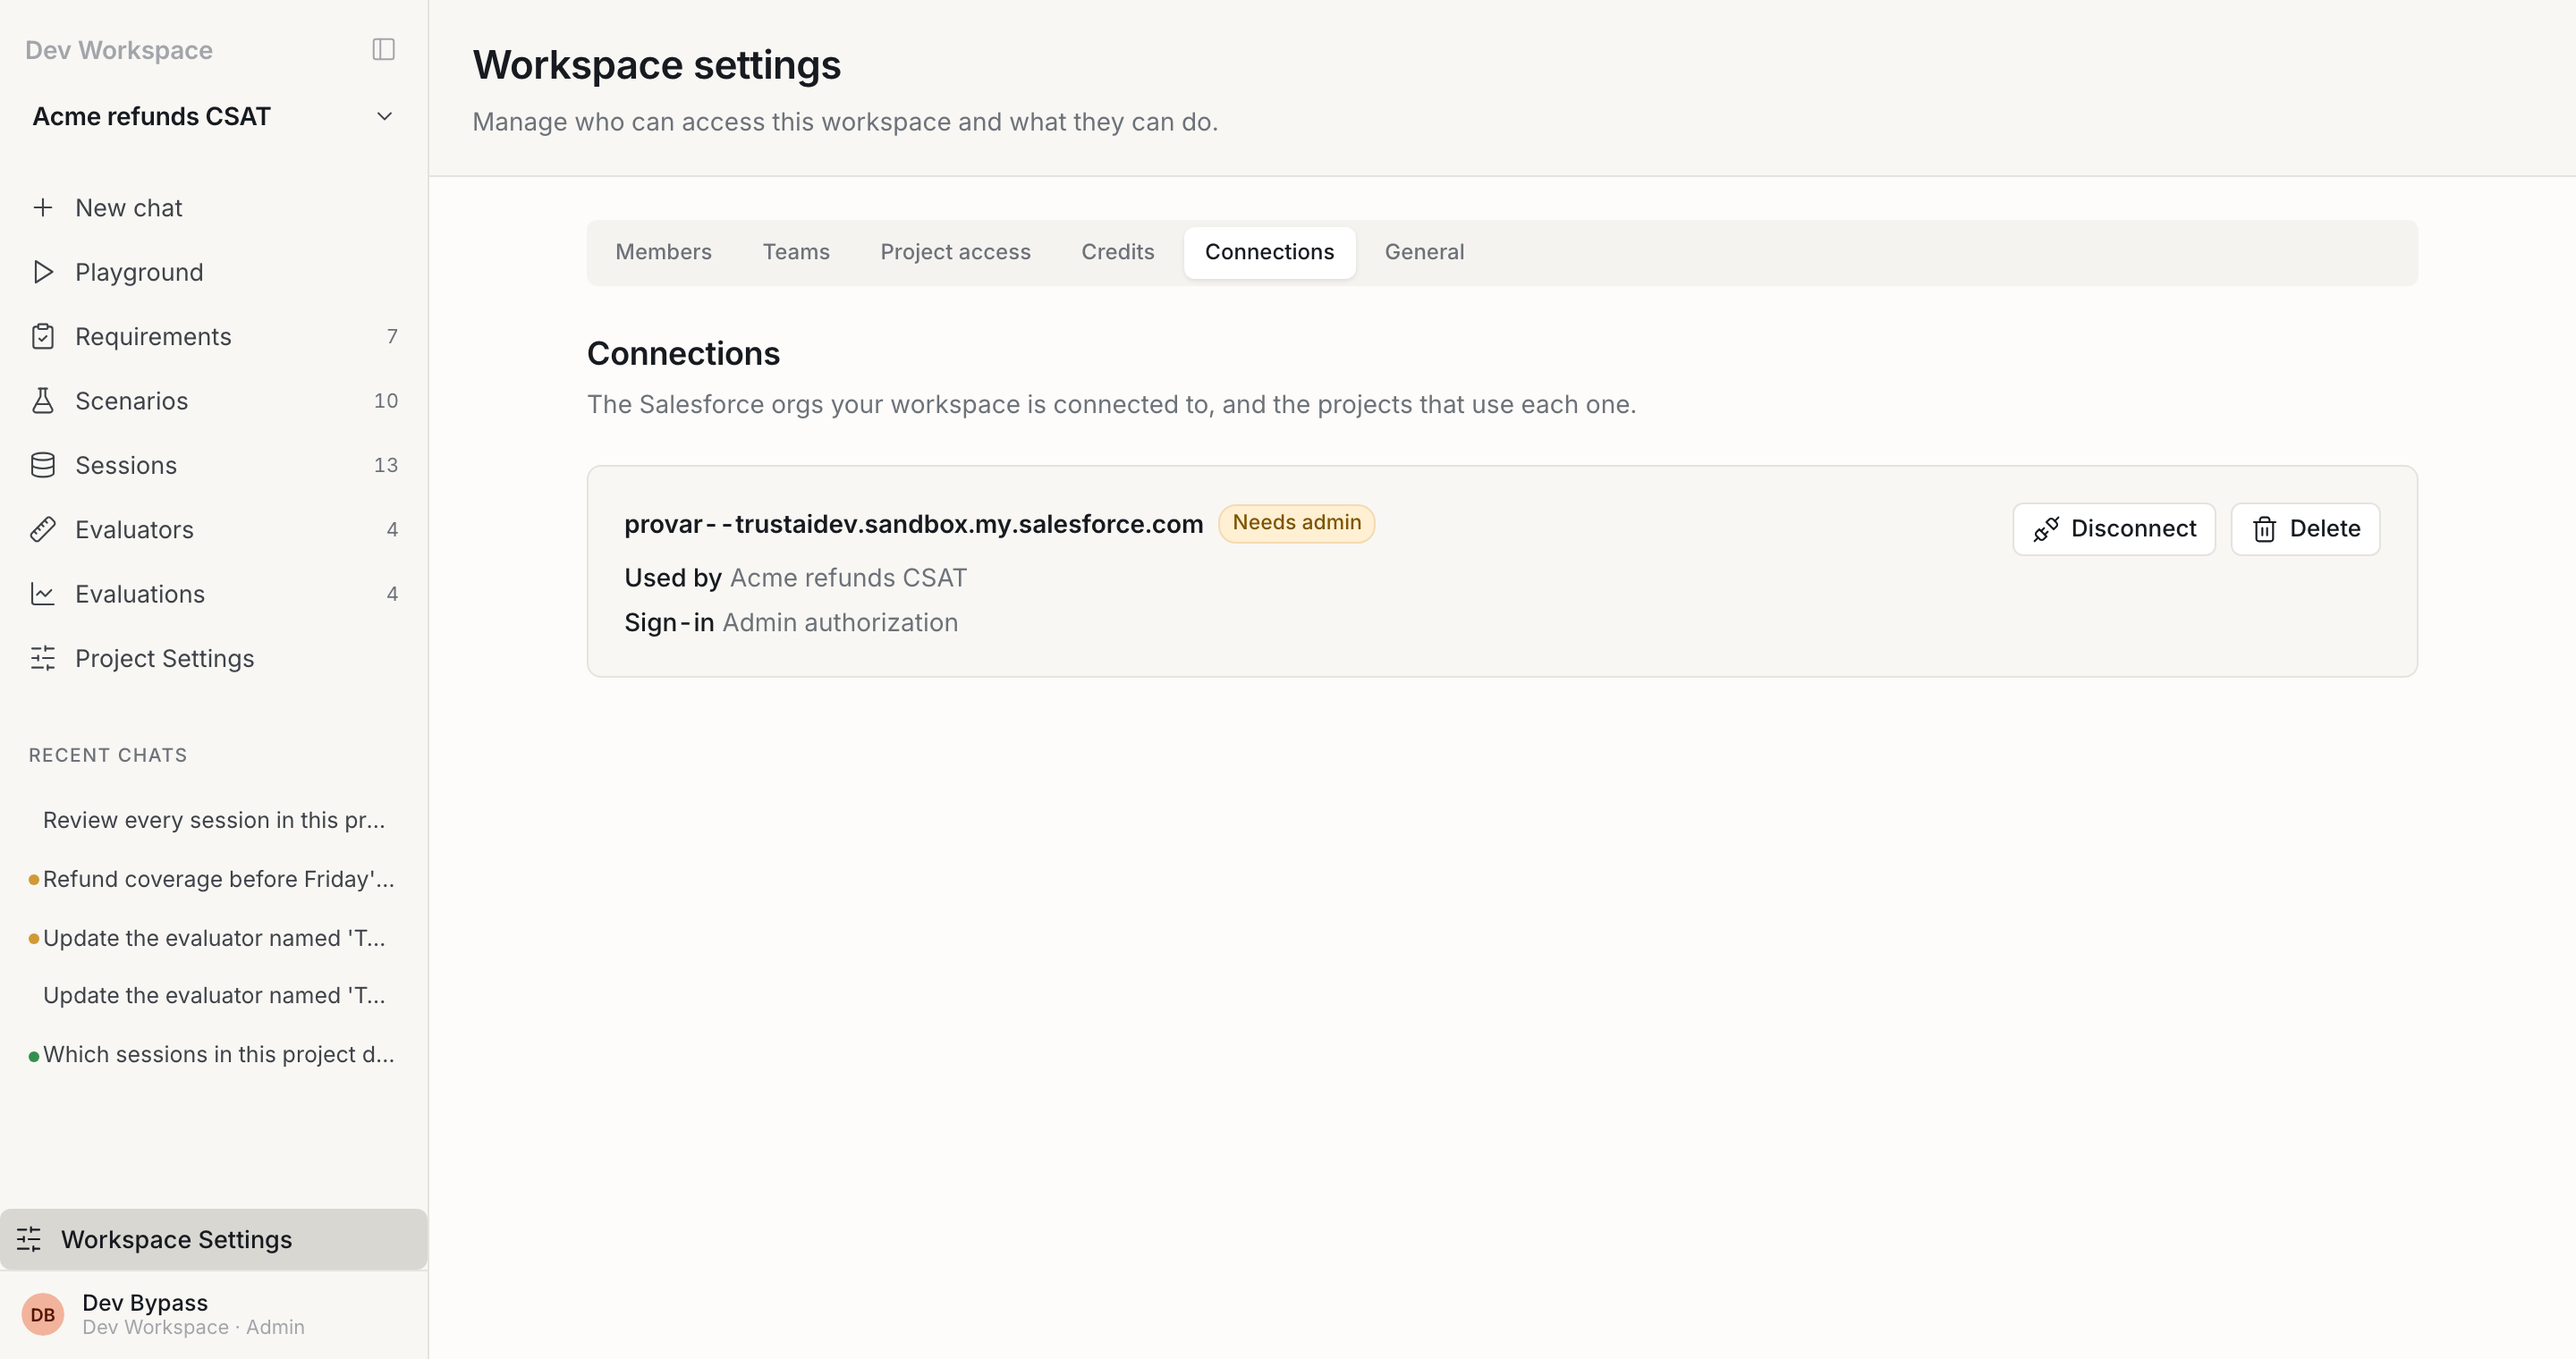
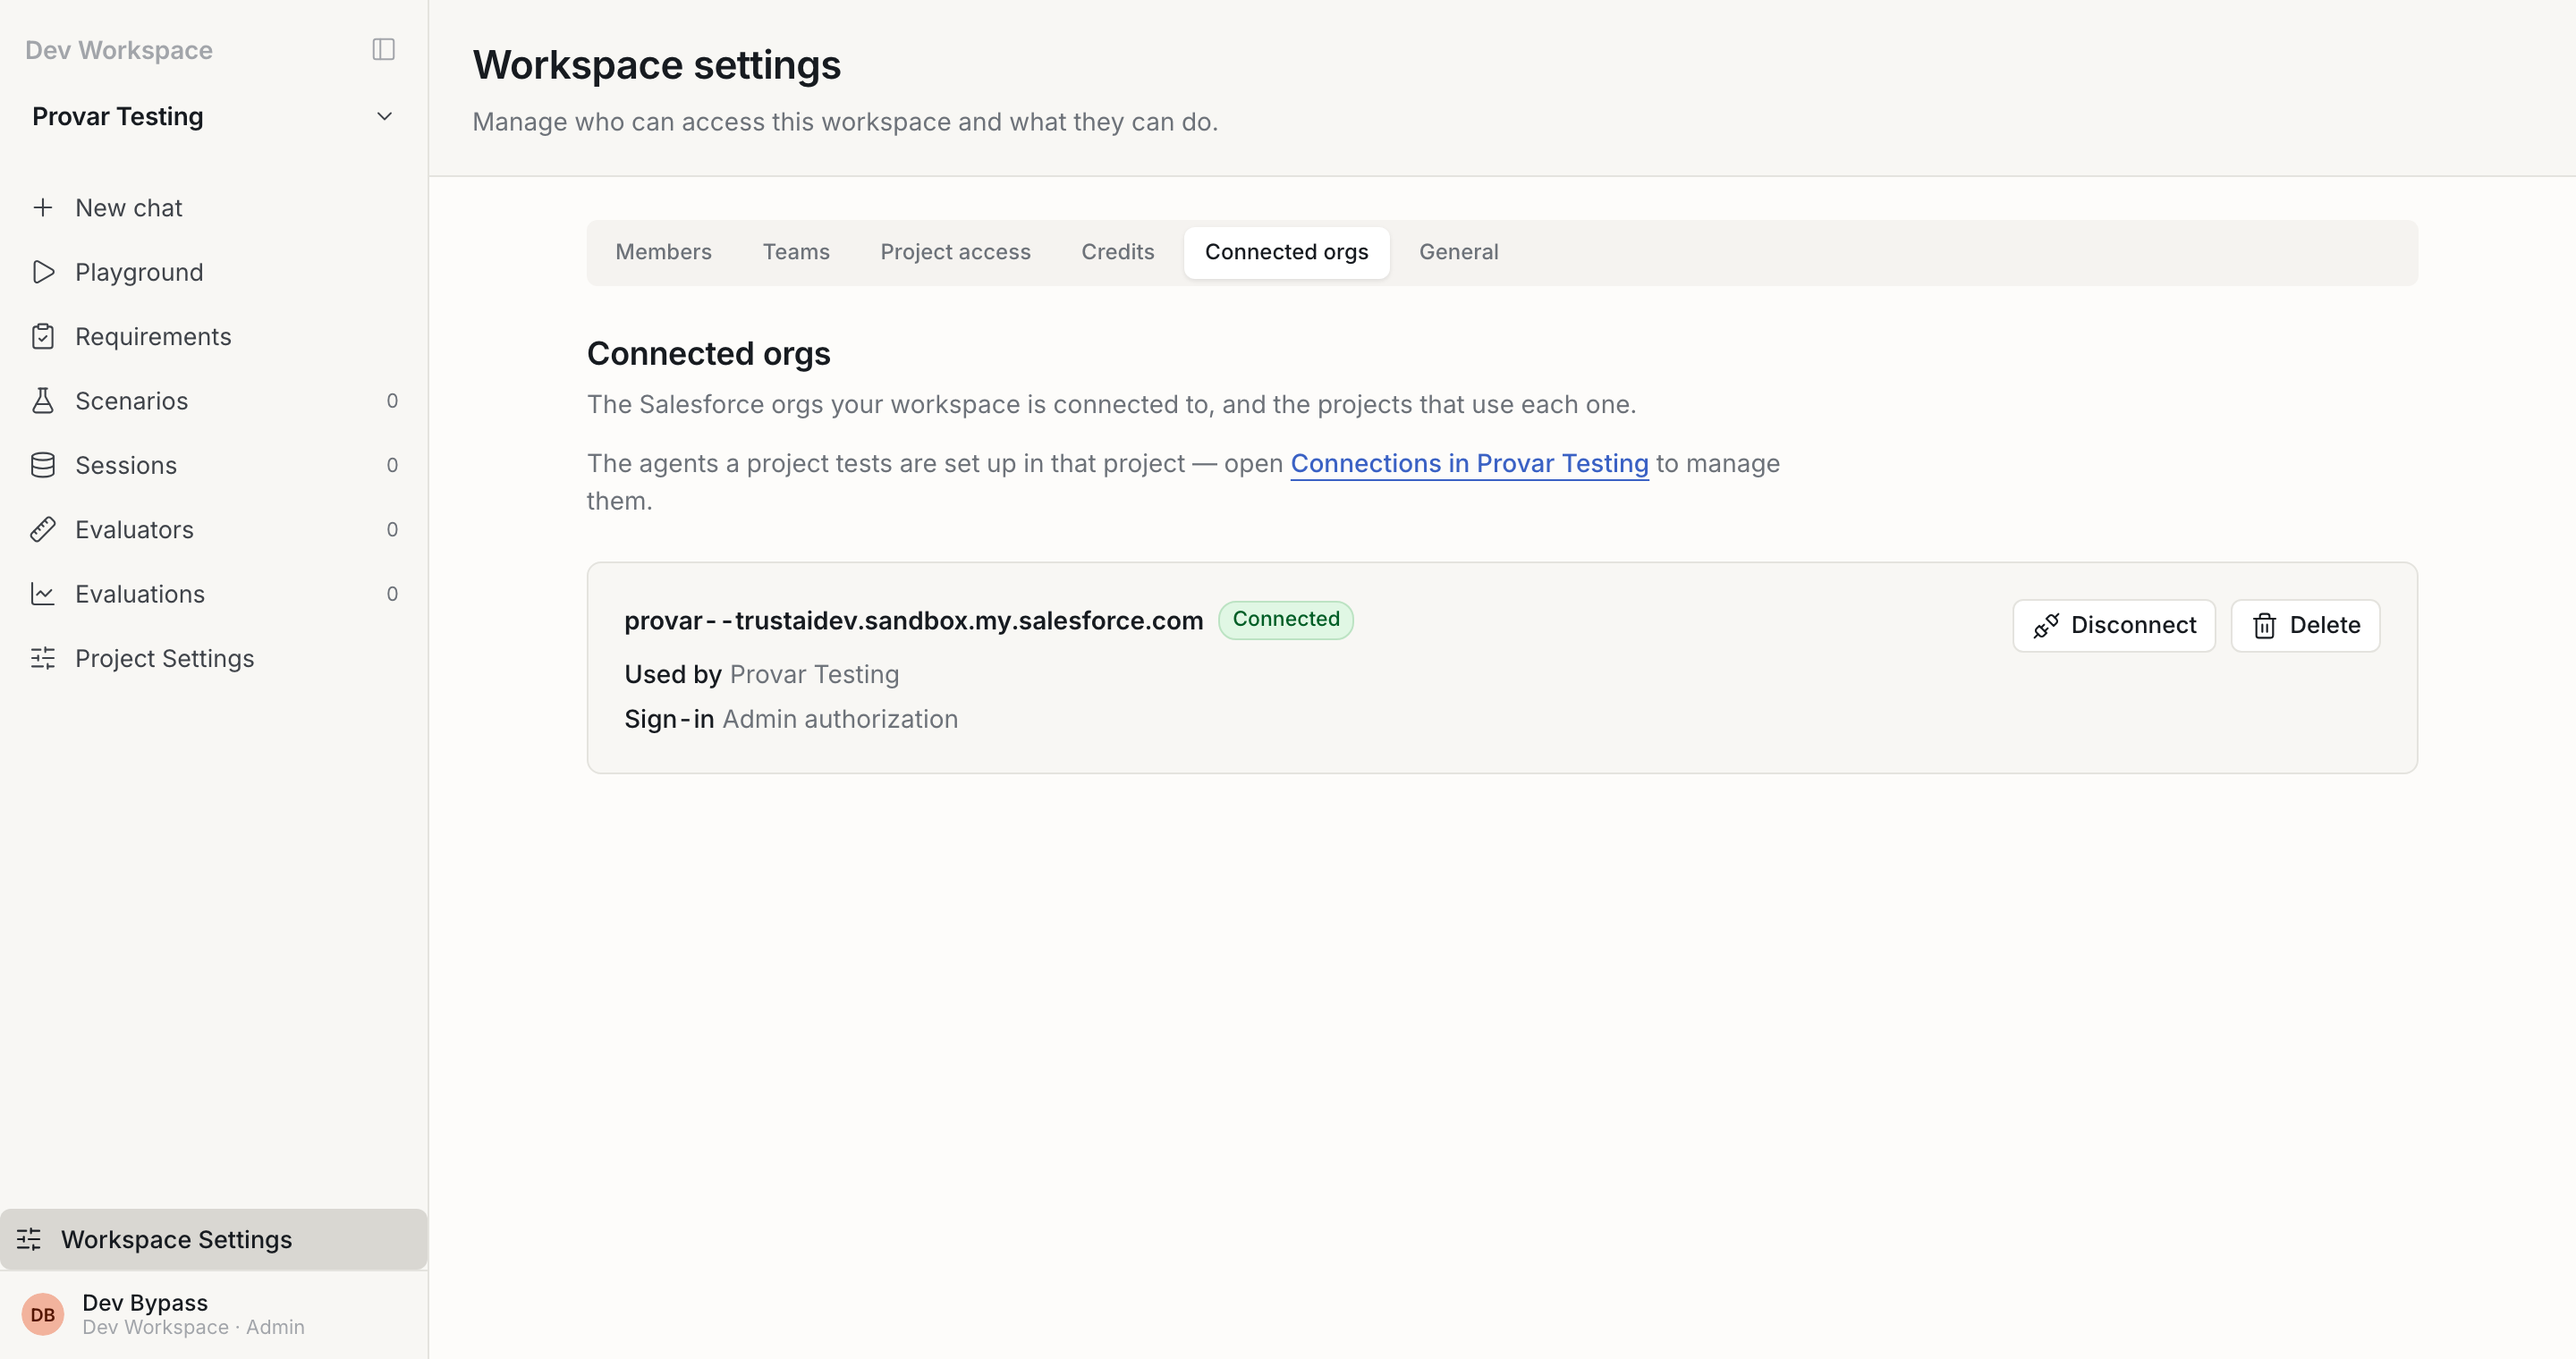
DEV-9112: realign the three Salesforce connection pages to v2026.09.09.2
The Connections redesign moved every landmark these pages start from, and the
workspace tab was renamed so one word stops naming two surfaces.

how-to/connect-agentforce.mdx
- Project Settings -> Connections -> Connect an agent, with the wizard's
  embedded chrome: one page header, "Back to connections" on every step, no
  breadcrumb, no "New connection" heading, no per-step Cancel.
- New section for reusing an org the workspace already authorized: the panel
  and its body quoted as shipped, what "Use this connection" actually does
  (an agent-less clone, no re-authorization, no second org-side app), the
  eligibility filter, and the exact-org pin.
- Dropped the Legacy sign-in section: the three legacy modes have no create
  route and no reachable edit form on a default build. One sentence remains.
- Deleted the named-user-tokens troubleshooting accordion; that gate was
  removed, and its remediation is the setting that breaks image upload.
- New "What happens after you connect": background profile capture from the
  live agent version, action input schemas, the Customize environment
  expander, and the on-screen trace-lag sentence plus the 30-minute grading
  wait cap.
- Added troubleshooting for the picture refusal and the transient
  token-bridge retry; corrected the abandoned-authorize recovery.
- Honest caption on the authorize recording rather than a silent re-use.

how-to/manage-salesforce-connections.mdx
[…]

diff --git a/captures/scripts/workspace-settings-connections.ts b/captures/scripts/workspace-settings-connections.ts
@@ -1,10 +1,15 @@
 /**
- * Capture: Workspace Settings → Connections.
+ * Capture: Workspace Settings → Connected orgs.
  *
  * Output:
  *   ../images/workspace-settings-connections.png
- *     The Connections tab with its one connection row — org My Domain host,
- *     lifecycle badge, Used by, Sign-in, and the Disconnect / Delete pair.
+ *     The Connected orgs tab with its one connection row — org My Domain host,
+ *     the reachability pill (plus a setup badge when setup is unfinished),
+ *     Used by, Sign-in, and the Disconnect / Delete pair.
+ *
+ * The tab was renamed from "Connections" to "Connected orgs" at v2026.08.24.1
+ * so it stops colliding with a project's own Connections tab. The route is
+ * unchanged; only the strings this script asserts moved.
  *
  * ## Why this one does NOT use gotoSurface()
  *
@@ -20,9 +25,9 @@
  * re-implements the same guard by hand, and then some:
  *
  *   1. `access-center-panel-connections` — the panel testid the route's own tab
- *      contract owns. Present only when the Connections route actually matched.
- *   2. The tab strip's Connections tab must be the SELECTED one. A sibling tab
- *      route also renders the shell, so the panel alone is not proof.
+ *      contract owns. Present only when the route actually matched.
+ *   2. The tab strip's Connected orgs tab must be the SELECTED one. A sibling
+ *      tab route also renders the shell, so the panel alone is not proof.
  *   3. `workspace-connection-row` must exist — the empty state and the loading
  *      skeleton both satisfy the panel assertion, and neither is worth shipping.
  *   4. The row must name a real Salesforce host, carry a badge, and offer both
@@ -31,17 +36,25 @@
  *
  * ## What this instance actually holds
  *
- * One live `salesforce_agentforce` connection, `trustaidev`, pointed at
+ * One live `salesforce_agentforce` connection, pointed at
  * `provar--trustaidev.sandbox.my.salesforce.com`, authorized by admin token
- * exchange and used by the one project (`Acme refunds CSAT`). No fixture work
- * was needed — nothing on this surface renders placeholder text.
+ * exchange and used by the one project (`Provar Testing`). No fixture work was
+ * needed — nothing on this surface renders placeholder text.
  *
- * Its lifecycle badge reads **Needs admin**, and that is REAL, not a staging
- * artefact: the org-side agent isn't activated, so the last health probe came
- * back unreachable and `derive_salesforce_lifecycle_status` falls through to
- * `needs_admin` (services/gateway/src/domain/hosts/schemas.py). Turning that
- * badge green would mean forging a live-integration health state, so the shot
- * ships the state the instance is genuinely in and the caption names it.
+ * Its setup finished, so it shows NO setup badge — `unfinishedSetupStatus`
+ * suppresses `active` deliberately, because "Connected" is also the
+ * reachability pill's word and two verdicts using it would contradict each
+ * other (apps/web/src/lib/salesforce-connection-lifecycle.ts). What the row
+ * carries instead is the probe pill, and whichever of its four phrases the
+ * instance genuinely reports is the one that ships.
+ *
+ * ## The sidebar has to name a real project
+ *
+ * The rail's project switcher shows the LAST project visited, and this route
+ * is workspace-scoped, so a cold run leaves whatever was there before —
+ * including scratch projects named after a ticket, which must never reach a
+ * reader-visible image. The script visits the project it is about to talk
+ * about first, so the switcher names it.
  *
  * ## Viewport
  *
@@ -59,8 +72,34 @@
 import { expect, test } from "@playwright/test";
 import { settle } from "../lib/helpers";
 
-test("workspace settings connections tab", async ({ page }) => {
+/** The API this instance serves; the harness's own override is honoured. */
+const API_BASE = process.env.TRUSTAI_API_URL ?? "http://localhost:8000";
+
+/** The project listed under "Used by" — and the name the sidebar must show. */
+const USED_BY_PROJECT = process.env.TRUSTAI_CAPTURE_PROJECT ?? "Provar Testing";
+
+test("workspace settings connected orgs tab", async ({ page }) => {
   await page.setViewportSize({ width: 1440, height: 760 });
+
+  // Seat the sidebar's project switcher on the project that actually uses the
+  // connection, so the shot never carries a scratch project's name.
+  const projects = await (
+    await page.request.get(`${API_BASE}/v1/projects`)
+  ).json();
+  const owner = (projects.items ?? []).find(
+    (project: { name: string }) => project.name === USED_BY_PROJECT
+  );
+  if (!owner) {
+    throw new Error(
+      `No project named "${USED_BY_PROJECT}" on this instance — the sidebar would name ` +
+        "whatever was visited last. Point USED_BY_PROJECT at the project under 'Used by'."
+    );
+  }
+  await page.goto(`/projects/${owner.id}/settings/connections`);
+  await page
+    .locator('[data-testid="connect-agent-action"]')
+    .waitFor({ state: "visible", timeout: 20_000 });
+
   await page.goto("/workspace/settings/connections");
 
   // (1) The route matched, not the SPA fallback.
@@ -76,10 +115,10 @@ test("workspace settings connections tab", async ({ page }) => {
     );
   }
 
-  // (2) Connections is the SELECTED tab — a sibling tab renders the same shell.
+  // (2) Connected orgs is the SELECTED tab — a sibling renders the same shell.
   await expect(
-    page.getByRole("tab", { name: "Connections" }),
-    "The Connections tab is not the selected tab — the shot would show a different panel"
+    page.getByRole("tab", { name: "Connected orgs" }),
+    "The Connected orgs tab is not the selected tab — the shot would show a different panel"
   ).toHaveAttribute("aria-selected", "true");
 
   // (3) A real row, not the empty state and not the loading skeleton.
@@ -121,13 +160,15 @@ test("workspace settings connections tab", async ({ page }) => {
     "No Delete button"
   ).toBeVisible();
 
-  // A lifecycle badge must be present. Which one is whatever the instance is
-  // genuinely in — asserting a specific status here would invite forging it.
-  const badge = row.getByText(
-    /^(Connected|Setting up|Needs admin|Setup failed)$/
-  );
-  await expect(badge, "The row shows no lifecycle badge").toBeVisible();
-  console.log(`lifecycle badge in frame: "${await badge.innerText()}"`);
+  // The reachability pill is always rendered; the setup badge only while setup
+  // still has something to say. Which phrase either shows is whatever the
+  // instance genuinely reports — asserting a specific one invites forging it.
+  const healthPill = row.locator('[data-testid="workspace-connection-health"]');
+  await expect(
+    healthPill,
+    "The row shows no reachability pill — that pill is always rendered, so this is a broken row"
+  ).toBeVisible();
+  console.log(`reachability pill in frame: "${await healthPill.innerText()}"`);
 
   // Nothing clipped: the card is a flex row that wraps rather than scrolls, but
   // prove the page itself is not scrolled sideways before shooting.
